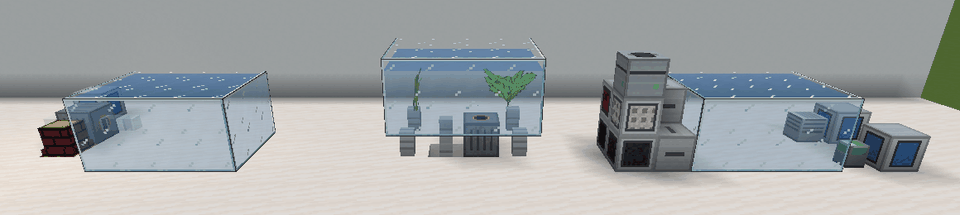
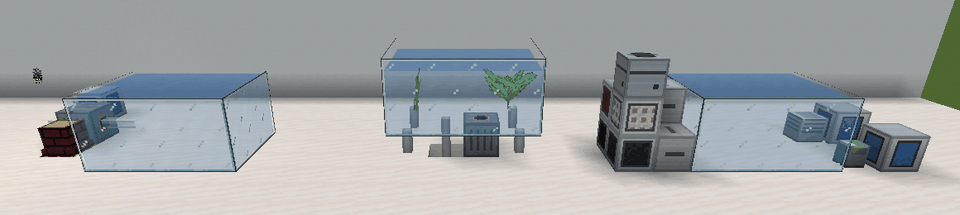
1.54.0-beta.1: CHANGELOG, handbook (pipe bundles: colour rings, the arm towards a single pipe in the middle; pipe pictures of the thinner pipes), water geometry test with the side inset

diff --git a/common/src/test/java/org/overengineer/bettacraft/client/tank/TankWaterGeometryTest.java b/common/src/test/java/org/overengineer/bettacraft/client/tank/TankWaterGeometryTest.java
@@ -141,7 +141,7 @@ class TankWaterGeometryTest {
                         float plane = d.getAxisDirection() == Direction.AxisDirection.POSITIVE ? 1 : 0;
                         float along = (float) d.getAxis().choose(c[0], c[1], c[2]);
                         if (d == Direction.UP) assertTrue(along < 1, "top below the glass: " + where);
-                        else assertEquals(plane - TankWaterGeometry.INSET * d.getAxisDirection().getStep(), along, E, "inset of " + where);
+                        else assertEquals(plane - inset(d) * d.getAxisDirection().getStep(), along, E, "inset of " + where);
                         // sideways: every border of the water face is a block border or a cut of the glass in front of it,
                         // so the glass piece in front of the water has exactly its extent (and centre)
                         float sMin = 1, sMax = 0, tMin = 1, tMax = 0;
@@ -164,7 +164,7 @@ class TankWaterGeometryTest {
                         // an outer side of the face ends exactly at the water face of that side (closed corner)
                         for (Direction e : Direction.values()) {
                             if (e.getAxis() == d.getAxis() || TankWaterGeometry.connected(mask, e)) continue;
-                            float edge = e.getAxisDirection() == Direction.AxisDirection.POSITIVE ? 1 - TankWaterGeometry.INSET : TankWaterGeometry.INSET;
+                            float edge = e.getAxisDirection() == Direction.AxisDirection.POSITIVE ? 1 - inset(e) : inset(e);
                             float bound = (float) (e.getAxisDirection() == Direction.AxisDirection.POSITIVE
                                     ? Math.max(Math.max(e.getAxis().choose(c[0], c[1], c[2]), e.getAxis().choose(c[3], c[4], c[5])),
                                     Math.max(e.getAxis().choose(c[6], c[7], c[8]), e.getAxis().choose(c[9], c[10], c[11])))
@@ -177,6 +177,11 @@ class TankWaterGeometryTest {
                 }
             }
         }
+    }
+
+    /** M65: the sides 0.75 px inside the glass, bottom and top 0.5 px. */
+    private static float inset(Direction d) {
+        return d.getAxis() == Direction.Axis.Y ? TankWaterGeometry.INSET : TankWaterGeometry.SIDE_INSET;
     }
 
     private static boolean isBorderOrCut(float v, java.util.List<Float> cuts) {

diff --git a/tools/assetgen/guide_images.py b/tools/assetgen/guide_images.py
@@ -1239,6 +1239,11 @@ def main() -> int:
     out_de = GUIDE / "_de_de" / "images"
     out_en.mkdir(parents=True, exist_ok=True)
     out_de.mkdir(parents=True, exist_ok=True)
+    if sys.argv[1:] == ["m65"]:
+        # M65: the thinner pipes (the pipe pictures of the M24 and M40 scenes, -Psmoketestm24, -Psmoketestm40a, -Psmoketestm40b)
+        m24(out_en)
+        m40(out_en)
+        return 0
     if sys.argv[1:] == ["m62b"]:
         m62b(out_en, out_de)
         return 0

diff --git a/CHANGELOG.md b/CHANGELOG.md
@@ -4,6 +4,35 @@ All notable changes to Bettacraft. The format follows [Keep a Changelog](https:/
 versions follow [Semantic Versioning](https://semver.org/). The release workflow publishes the section of the tagged
 version as release notes.
 
+## [1.54.0-beta.1] - 2026-11-24
+
+Thinner, cleaner pipes; no water over blocks at the glass.
+
+### Changed
+- **Pipes:** the glass, stainless steel and filter pipes are 4 px thick instead of 6. Their textures run along the pipe on
+  every face (lighter in the middle, darker along the edges) without the grey lines across them at every block border and in
+  the middle of a block; a glass pipe shows no faces inside it any more. The filter pipes carry a ring of their line's colour
+  (blue, orange, green, brown) at every block border. The T-piece is a grey steel collar like the pipes (it was a brown brass
+  box), 6 px instead of 8.
+- **Pipe bundles:** where a line leaves a bundle into a single pipe (or a filter connector, an aquarium), its arm comes out of
+  the middle of the manifold, in line with the pipe; it kept to its corner of the manifold and the pipe stepped sideways at the
+  block border. Between two bundles every line keeps its corner as before.
+- CI: the GitHub Actions runs are named after what they do ("Release v1.54.0-beta.1+neoforge-1.21.1", "Build master (full)",
+  "Integration tests: zoo on master") instead of the commit message.
+- Development: the client smoke `-Psmoketestm65` (both loaders; `-Pm65parts=pipes,wall`, `-Pm65packs`, `-Pm65tag`): a pipe yard
+  (straight runs, bends, T and cross, the four filter lines with T-pieces, bundles with lines coming in and leaving) and the
+  water at blocks against the glass with its guard (every view without water, the old way and now; on the blocks the picture
+  must equal the one without water, beside them the water must be there).
+
+### Fixed
+- **Water drawn over blocks at the glass:** blocks standing inside a tank against the glass (the land of a paludarium, a back
+  wall built into an aquarium, the substrate) were tinted by the water as if it stood between them and the glass. The water's
+  side faces lay exactly where the miniature draws the front of those blocks and won the depth test; they lie a quarter
+  pixel behind it now.
+- `curseforgeDescription` stayed UP-TO-DATE when only the commit behind its ref changed (a release tag set again on another
+  commit) and kept the old commit in every link; the commit is now an input of the task (test `tools/ci/test_curseforge_description.sh`,
+  also in the build workflow).
+
 ## [1.53.0-beta.1] - 2026-11-23
 
 Tank optics: connected glass at a distance, stalks on their base, swaying roots, the light on the lid, a shorter overlay.

diff --git a/common/src/main/resources/assets/bettacraft/guides/bettacraft/guide/_de_de/equipment/pipe_bundle.md b/common/src/main/resources/assets/bettacraft/guides/bettacraft/guide/_de_de/equipment/pipe_bundle.md
@@ -34,7 +34,11 @@ einer verbleibenden Leitung ist der Block wieder ein normales Rohr. Wer ein Bün
 zurück.
 
 Die vier Leitungen und ihre Farben: Einlass (blau) und Rücklauf (orange) der [Filterleitungen](filter_lines.md),
-Frischwasser (grün) und Abwasser (braun).
+Frischwasser (grün) und Abwasser (braun); jedes Rohr trägt an jeder Blockgrenze einen Ring seiner Farbe.
+
+Zwischen zwei Bündeln bleibt jede Leitung in ihrer eigenen Ecke des Stahlverteilers, so liegen die Bündel in einer Linie. Wo
+eine Leitung das Bündel in ein einzelnes Rohr verlässt (oder in einen Filteranschluss, ein Aquarium), kommt ihr Arm aus der
+**Mitte** des Verteilers, in einer Linie mit dem Rohr.
 
 ## Frisch- und Abwasser
 

diff --git a/common/src/main/resources/assets/bettacraft/guides/bettacraft/guide/equipment/pipe_bundle.md b/common/src/main/resources/assets/bettacraft/guides/bettacraft/guide/equipment/pipe_bundle.md
@@ -33,7 +33,11 @@ again: its pipe (and T-piece) come back, and with one line left the block is a p
 the pipe of every line back.
 
 The four lines and their colours: intake (blue) and return (orange) of the [filter lines](filter_lines.md), fresh water
-(green) and waste water (brown).
+(green) and waste water (brown); each pipe carries a ring of its colour at every block border.
+
+Between two bundles every line keeps to its own corner of the steel manifold, so the bundles line up. Where a line leaves
+the bundle into a single pipe (or a filter connector, an aquarium), its arm comes out of the **middle** of the manifold, in
+line with that pipe.
 
 ## Fresh and waste water
 
